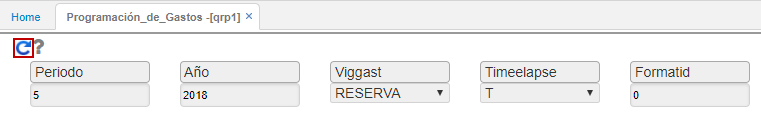
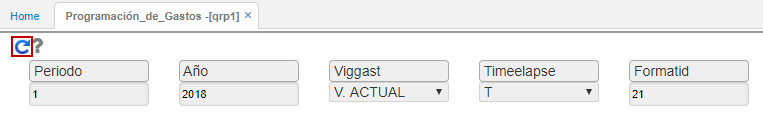
qrp1

diff --git a/Operacion/erp/presupuestoo/qreporte/qrp1.md b/Operacion/erp/presupuestoo/qreporte/qrp1.md
@@ -7,13 +7,13 @@ editable: si
 
 # QRP1 - Programación de Gastos
 
-Reporte que muestra la programación de gastos de chip presupuestal.  
+Reporte que muestra la programación de gastos del proceso Chip Presupuestal generado previamente en la aplicación [**KPGF - Genera Formatos**](http://docs.oasiscom.com/Operacion/erp/contabilidad/kproceso/kpgf#proceso-chip-presupuestal).  
 
-Consultamos por periodo, año, vigencia del gasto.  
+Consultamos por el periodo para el cual se generó el proceso en la aplicación KPGF, el año y el Id del Formato correspondiente a _Programación de Gastos_ (**21**).  
 
 ![](qrp1.png)
 
-Al generar.  
+Al generar el reporte se visualizará la información.  
 
 ![](qrp11.png)
 
